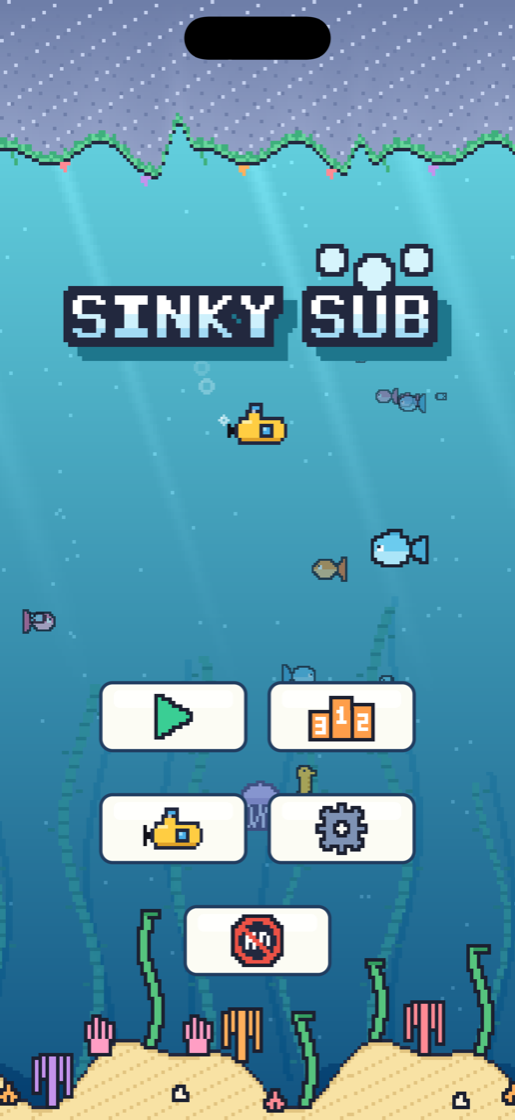
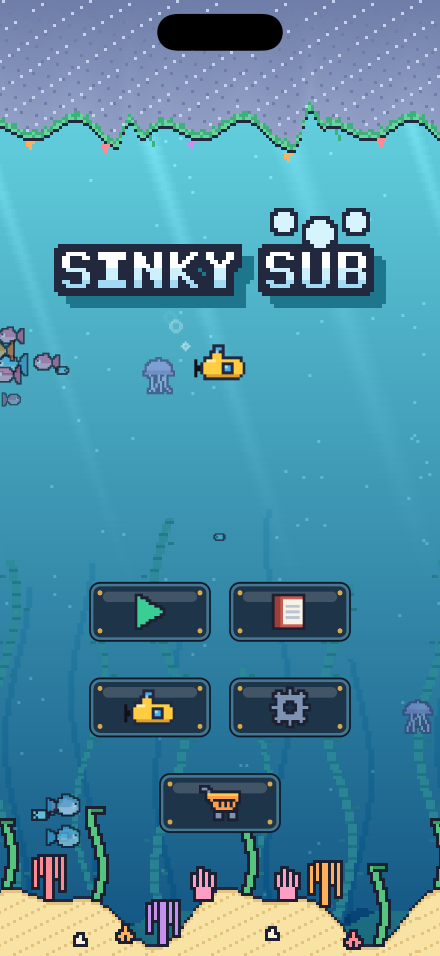
Bring the site up to what the game is now
The page was selling a different game — "tap to dive, avoid obstacles" — and
one of its three screenshots was the old submarine selector, a screen that no
longer exists. Nothing on it mentioned the Hangar, the designer, depth,
anchors or the bands the dive goes through.

It leads with the collection and the designer now, over five screens instead
of three.

Two things on the support page were wrong rather than merely out of date: it
said progress is stored on the device only with no cloud backup, which has not
been true since the game started syncing to iCloud, and it sent people to
Settings to restore a purchase, which is in the shop.

The privacy policy counted medals and knew about one purchase. It now lists
what is actually kept — deepest dive, anchors, hulls, drawn submarines and
their names — and says plainly that a drawing and its name never leave the
player's own Apple Account.

diff --git a/index.html b/index.html
@@ -4,11 +4,12 @@
 <meta charset="utf-8">
 <meta name="viewport" content="width=device-width, initial-scale=1">
 <title>Sinky Sub</title>
-<meta name="description" content="Tap to dive, avoid obstacles. A one-tap arcade game for iPhone.">
+<meta name="description" content="Fifty-one submarines to collect, earned by how deep you get — and five slots to draw your own. A one-life diving game for iPhone.">
 <meta property="og:title" content="Sinky Sub">
-<meta property="og:description" content="Tap to dive, avoid obstacles. A one-tap arcade game for iPhone.">
+<meta property="og:description" content="Fifty-one submarines to collect, earned by how deep you get — and five slots to draw your own. A one-life diving game for iPhone.">
 <meta property="og:type" content="website">
 <meta property="og:url" content="https://sinkysub.com/">
+<meta property="og:image" content="https://sinkysub.com/shot-title.png">
 <meta name="theme-color" content="#082F3D">
 <link rel="preconnect" href="https://fonts.googleapis.com">
 <link rel="preconnect" href="https://fonts.gstatic.com" crossorigin>
@@ -18,14 +19,16 @@
   --deep:#082F3D; --sea:#12667E; --reef:#2E96AC;
   --sand:#F2DFA8; --shallow:#4FB6C6;
   --ink:#0A2530; --paper:#FFFFFF;
+  --night:#06202A;
 }
 *{box-sizing:border-box}
-html{-webkit-text-size-adjust:100%}
+html{-webkit-text-size-adjust:100%; scroll-behavior:smooth}
 body{
   margin:0; color:var(--ink); background:var(--deep);
   font-family:Nunito,-apple-system,BlinkMacSystemFont,"Segoe UI",sans-serif;
   font-size:17px; line-height:1.6; -webkit-font-smoothing:antialiased;
 }
+img{max-width:100%}
 
 /* ---------- hero: the water column ---------- */
 .hero{
@@ -51,12 +54,12 @@ h1{
   text-shadow:0 5px 0 #0C4152, 0 9px 0 rgba(8,47,61,.35);
 }
 .tag{
-  margin:22px auto 0; max-width:26ch; color:var(--paper); font-weight:800;
+  margin:22px auto 0; max-width:30ch; color:var(--paper); font-weight:800;
   font-size:clamp(1.1rem,3vw,1.45rem); line-height:1.4;
   text-shadow:0 2px 6px rgba(6,32,42,.4);
 }
 .sub{
-  margin:10px auto 0; max-width:30ch; color:#0A3644; font-weight:700;
+  margin:10px auto 0; max-width:34ch; color:#0A3644; font-weight:700;
   font-size:clamp(.98rem,2.3vw,1.1rem);
 }
 
@@ -90,16 +93,67 @@ h1{
 .shots img:nth-child(2){margin-bottom:clamp(10px,3.5vw,38px)}
 .floor{height:96px; background:linear-gradient(180deg,transparent,var(--deep) 62%); margin-top:-30px}
 
+/* ---------- features ---------- */
+main{background:var(--deep)}
+.band{padding:clamp(48px,7vw,86px) 20px; border-top:1px solid rgba(255,255,255,.06)}
+.band:nth-child(even){background:var(--night)}
+.row{
+  max-width:1000px; margin:0 auto;
+  display:flex; align-items:center; gap:clamp(26px,5vw,64px);
+}
+.row.flip{flex-direction:row-reverse}
+.row figure{margin:0; flex:0 0 auto}
+.row figure img{
+  width:clamp(170px,30vw,264px); height:auto; display:block;
+  border-radius:14px; border:3px solid rgba(8,47,61,.7);
+  box-shadow:0 20px 44px -16px rgba(2,14,19,.85);
+}
+.copy{flex:1 1 auto; min-width:0}
+.copy h2{
+  font-family:Silkscreen,monospace; font-weight:700; margin:0 0 14px;
+  font-size:clamp(1.12rem,3.1vw,1.72rem); line-height:1.25;
+  color:var(--sand); letter-spacing:.01em;
+}
+.copy p{margin:0 0 14px; color:#BFD9E1}
+.copy p:last-child{margin-bottom:0}
+.copy strong{color:#EAF7FA}
+
+/* two side by side, for the bands */
+.pair{display:flex; gap:clamp(12px,2.6vw,26px); flex:0 0 auto}
+.pair img{
+  width:clamp(130px,21vw,196px); height:auto; display:block;
+  border-radius:14px; border:3px solid rgba(8,47,61,.7);
+  box-shadow:0 20px 44px -16px rgba(2,14,19,.85);
+}
+
+/* ---------- the short facts ---------- */
+.facts{
+  max-width:1000px; margin:0 auto; padding:0;
+  display:grid; gap:clamp(18px,3vw,30px);
+  grid-template-columns:repeat(auto-fit,minmax(248px,1fr));
+}
+.fact h3{
+  font-family:Silkscreen,monospace; font-weight:700; margin:0 0 9px;
+  font-size:.96rem; color:var(--shallow); letter-spacing:.02em; line-height:1.35;
+}
+.fact p{margin:0; color:#A8C6D0; font-size:.97rem}
+
 footer{
   padding:16px 24px 52px; text-align:center;
-  background:var(--deep); color:#8FB3BD; font-size:.9rem;
+  background:var(--night); color:#8FB3BD; font-size:.9rem;
+  border-top:1px solid rgba(255,255,255,.06);
 }
-footer nav{display:flex; flex-wrap:wrap; gap:8px 22px; justify-content:center; margin:0 0 20px}
+footer nav{display:flex; flex-wrap:wrap; gap:8px 22px; justify-content:center; margin:28px 0 20px}
 footer a{color:var(--shallow); text-decoration:none; font-weight:700}
 footer a:hover,footer a:focus-visible{text-decoration:underline}
 footer p{margin:5px 0; font-size:.82rem; color:#5E838E}
 
 @media (prefers-reduced-motion:reduce){*{transition:none!important}}
+@media (max-width:760px){
+  .row,.row.flip{flex-direction:column; text-align:center}
+  .copy h2{font-size:1.18rem}
+  .pair{justify-content:center}
+}
 @media (max-width:560px){
   .hero{padding-top:54px}
 }
@@ -110,8 +164,8 @@ footer p{margin:5px 0; font-size:.82rem; color:#5E838E}
 <header class="hero">
   <div class="hero-inner">
     <h1>SINKY&nbsp;SUB</h1>
-    <p class="tag">Tap to dive, avoid obstacles.</p>
-    <p class="sub">Unlock new submarines as you go.</p>
+    <p class="tag">Fifty-one submarines are down there. You start with one.</p>
+    <p class="sub">One life per dive. How far down can you take it?</p>
 
     <div class="cta">
       <a class="badge" href="#">Coming soon to the App&nbsp;Store</a>
@@ -119,13 +173,113 @@ footer p{margin:5px 0; font-size:.82rem; color:#5E838E}
     </div>
 
     <div class="shots">
-      <img src="shot-title.png" alt="The Sinky Sub title screen, a yellow submarine bobbing beneath the logo in a coral reef." width="515" height="1120">
-      <img src="shot-selector.png" alt="The submarine selector, showing the yellow starter hull marked EQUIPPED, with arrows for browsing the rest." width="515" height="1120">
-      <img src="shot-gameplay.png" alt="Gameplay: the yellow submarine diving between tall pink coral columns, score 19." width="515" height="1120">
+      <img src="shot-title.png" alt="The Sinky Sub title screen: the yellow submarine bobbing beneath the logo, over a kelp bed." width="440" height="956" loading="eager">
+      <img src="shot-kelp.png" alt="Diving at 255 metres, the yellow submarine threading the gap between two kelp plants." width="440" height="956" loading="eager">
+      <img src="shot-hangar.png" alt="The Hangar, showing a shelf of collected submarine hulls with the yellow one equipped." width="440" height="956" loading="eager">
     </div>
   </div>
   <div class="floor"></div>
 </header>
+
+<main>
+
+  <section class="band">
+    <div class="row">
+      <figure>
+        <img src="shot-hangar.png" alt="The Hangar: twelve submarine hulls on a shelf, the yellow one badged as equipped." width="440" height="956" loading="lazy">
+      </figure>
+      <div class="copy">
+        <h2>Fifty-one hulls to collect</h2>
+        <p>Sixteen unlock by reaching a depth. Thirty-three are bought with
+        anchors — <strong>SHALLOWS</strong> at 100 M, <strong>REEF</strong> at
+        200, <strong>TRENCH</strong> at 300, <strong>ABYSS</strong> at 400, and
+        <strong>HADAL</strong> and <strong>CHALLENGER</strong> for the dives
+        that go past 600.</p>
+        <p>You earn an anchor on every dive that reaches its depth, not just
+        your best one, so a bad streak still leaves you something. A fiftieth
+        SHALLOWS counts as much as your first.</p>
+        <p>Two of the fifty-one, nobody will tell you how to find.</p>
+      </div>
+    </div>
+  </section>
+
+  <section class="band">
+    <div class="row flip">
+      <figure>
+        <img src="shot-designer.png" alt="The sub designer: a hand-drawn cyan submarine on a pixel grid, above three rows of colour swatches and the brush, fill, undo, save and cancel tools." width="440" height="956" loading="lazy">
+      </figure>
+      <div class="copy">
+        <h2>Draw your own</h2>
+        <p>Five slots in the Hangar are yours to paint. The hull on a grid,
+        <strong>twenty-seven colours</strong>, a brush, a fill bucket and an
+        undo — and a name you give it on a keyboard the game draws itself.</p>
+        <p>Every pixel inside the outline belongs to you, the lookout window
+        included: paint over it, redraw it, or leave the hull blank where it
+        was. Only the outline, the periscope and the propeller stay put,
+        because the outline is the shape the game measures your crashes
+        against.</p>
+        <p>Save it and you are diving it. Your designs follow you to your
+        other devices. The first slot comes with the game.</p>
+      </div>
+    </div>
+  </section>
+
+  <section class="band">
+    <div class="row">
+      <div class="pair">
+        <img src="shot-kelp.png" alt="The kelp at 255 metres: two kelp plants hanging from the cave roof, a jellyfish drifting past." width="440" height="956" loading="lazy">
+        <img src="shot-midnight.png" alt="The midnight at 906 metres: the cave almost black, lit only by the submarine's own lamp, with the rock edges glowing." width="440" height="956" loading="lazy">
+      </div>
+      <div class="copy">
+        <h2>The water changes as you go</h2>
+        <p>The reef gives way to <strong>kelp</strong> at 200 M, to a moored
+        <strong>minefield</strong> at 400 M, and at 600 M to something with
+        <strong>arms</strong>. Past 800 M the light goes: down there the only
+        thing lit is what your own lamp reaches.</p>
+        <p>Each band is a little tighter and a little quicker than the one
+        above it. Every dive meets the same water at the same depth, so
+        nobody's run is luckier than anybody else's.</p>
+      </div>
+    </div>
+  </section>
+
+  <section class="band">
+    <div class="facts">
+      <div class="fact">
+        <h3>Depth, not points</h3>
+        <p>Your score is how far down you got, run as an odometer that keeps
+        the distance you covered even if the dive ends between two columns.</p>
+      </div>
+      <div class="fact">
+        <h3>Built to be fair</h3>
+        <p>Collision follows the drawn art, not a box around it. If you can
+        see daylight through a gap, you fit through it.</p>
+      </div>
+      <div class="fact">
+        <h3>Made from scratch</h3>
+        <p>Every sprite, every sound effect and the whole soundtrack were
+        written for this game. No stock art, no asset packs.</p>
+      </div>
+      <div class="fact">
+        <h3>Plays anywhere</h3>
+        <p>No account. No internet needed. No timers, no lives to wait for,
+        nothing asking you to come back tomorrow.</p>
+      </div>
+      <div class="fact">
+        <h3>One life per dive</h3>
+        <p>Your submarine floats upward on its own. Tap to fire the thrusters
+        and dive. Touch the roof and the run is over.</p>
+      </div>
+      <div class="fact">
+        <h3>Two things for sale</h3>
+        <p>Free, with a banner across the top. One purchase removes it for
+        good, and one opens the other four drawing slots. Nothing else, and
+        nothing timed.</p>
+      </div>
+    </div>
+  </section>
+
+</main>
 
 <footer>
   <nav>

diff --git a/support.html b/support.html
@@ -37,24 +37,57 @@
 <body>
 <main>
 <h1>Sinky Sub — Support</h1>
-<p class="updated">A one-tap arcade game for iPhone</p>
+<p class="updated">A one-life diving game for iPhone</p>
 
 <h2>How to play</h2>
 <p>Your submarine floats upward on its own. Tap anywhere to fire the thrusters
-and dive. Thread the gaps in the coral and stay off the cave roof — that is the
-only surface that ends a run. The sandy floor is scenery; sinking into it is
-safe.</p>
+and dive. Thread the gaps and stay off the cave roof — that is the only surface
+that ends a run. The sandy floor is scenery; sinking into it is safe.</p>
+<p>Your score is how far down you got, in metres. One life per dive.</p>
+<p>There is a three-page how-to-play book inside the game, on the question mark
+on the dive briefing and in Settings. Its first page has a TRY ME button that
+flies your own boat, so you can feel the controls without spending a run.</p>
+
+<h2>The Hangar</h2>
+<p>The submarine button on the title screen opens the Hangar: every hull in the
+game on one shelf, 51 of them. Sixteen unlock by reaching a depth. Thirty-three
+are bought with anchors, which you earn by reaching a depth on any dive —
+SHALLOWS at 100 M, REEF at 200, TRENCH at 300, ABYSS at 400, HADAL at 600 and
+CHALLENGER at 800. You keep an anchor for every dive that reaches its depth,
+not just your best one.</p>
+
+<h2>Drawing your own</h2>
+<p>On the end of the Hangar shelf are five drawing slots. The first comes with
+the game; the other four are a single purchase.</p>
+<p>Open a slot and tap the brush. You get the hull on a grid, twenty-seven
+colours, a brush, a fill bucket and an undo. Everything inside the submarine's
+outline is yours to paint, the lookout window included — paint over it, redraw
+it, or leave the hull blank where it was. The outline itself, the periscope and
+the propeller stay as they are, because the outline is the shape the game
+measures your crashes against.</p>
+<p>Tap the name at the top to rename it on the game's own keyboard: twelve
+characters, letters and digits. Saving equips what you drew. Your drawings and
+their names are yours alone — they are never shown to anyone else.</p>
 
 <h2>Common questions</h2>
 <p><strong>Some submarines show "???" instead of how to unlock them.</strong><br>
 That is intended. A couple of hulls are hidden and unlock by other means.</p>
-<p><strong>I bought Remove Ads and got a new phone.</strong><br>
-Open Settings inside the game and choose Restore. Purchases are tied to your
-Apple Account rather than to a device, so this works on any phone signed in to
-the same account.</p>
+<p><strong>I bought something and got a new phone.</strong><br>
+Open SHOP on the title screen and tap Restore. Purchases are tied to your Apple
+Account rather than to a device, so this works on any phone signed in to the
+same account. Restore is also on each purchase's own page.</p>
 <p><strong>My progress disappeared.</strong><br>
-Progress is stored on the device only, so deleting the app deletes it. There is
-no cloud backup.</p>
+Your best depth, your anchors, your unlocked hulls, your settings and your
+drawn submarines all sync to your own iCloud, so a new phone picks up where the
+old one left off. Check that the phone is signed in to the same Apple Account
+and that iCloud Drive is on. Purchases are separate and come back through
+Restore, above.</p>
+<p><strong>The shop says a purchase is unavailable.</strong><br>
+That normally means the device cannot reach the App Store. Check the connection
+and reopen the shop.</p>
+<p><strong>I bought the extra drawing slots but still see four locked.</strong><br>
+Tap Restore in the shop. If they are still locked after that, write to me with
+the Apple Account email you bought with.</p>
 
 <h2>Contact</h2>
 <p><a href="mailto:support@sinkysub.com">support@sinkysub.com</a></p>

diff --git a/privacy-policy.html b/privacy-policy.html
@@ -37,7 +37,7 @@
 <body>
 <main>
 <h1>Sinky Sub — Privacy Policy</h1>
-<p class="updated">Last updated 4 September 2026</p>
+<p class="updated">Last updated 8 October 2026</p>
 
 <h2>The short version</h2>
 <p>Sinky Sub has no accounts, no analytics, and does not track you. It does show
@@ -48,18 +48,29 @@ into other apps.</p>
 <h2>What is stored, and where</h2>
 <p>The game saves your progress:</p>
 <ul>
-<li>your best score and last score</li>
-<li>how many medals you have earned</li>
+<li>your deepest dive, and the depth of your last one</li>
+<li>how many anchors you have earned at each rank</li>
 <li>which submarine hulls you have unlocked, and which one is equipped</li>
+<li>the submarines you have drawn yourself, and the names you gave them</li>
 <li>your music, sound, haptics and random-hull settings</li>
 </ul>
-<p>All of it lives in your device's own storage. Most of it — your best score,
-your medals, your unlocked hulls and your settings — also syncs to your own
-iCloud account, so a new phone picks up where the old one left off. That copy
-belongs to you, sits under your Apple Account, and is covered by Apple's privacy
-policy; the developer cannot see it or read it. Deleting the app removes the
-copy on the device. The iCloud copy is removed through your device's iCloud
-storage settings.</p>
+<p>All of it lives in your device's own storage. Most of it — your deepest
+dive, your anchors, your unlocked hulls, your drawn submarines and your
+settings — also syncs to your own iCloud account, so a new phone picks up where
+the old one left off. That copy belongs to you, sits under your Apple Account,
+and is covered by Apple's privacy policy; the developer cannot see it or read
+it. Deleting the app removes the copy on the device. The iCloud copy is removed
+through your device's iCloud storage settings.</p>
+
+<h2>The submarines you draw</h2>
+<p>The game lets you draw your own hulls and give each one a name. A drawing is
+stored as a list of colours, and the name as plain text, alongside the rest of
+your progress — on your device and in your own iCloud.</p>
+<p><strong>Neither ever leaves your own Apple Account.</strong> There is no
+gallery, no sharing, no upload and no moderation queue, because nothing you
+draw or type is sent anywhere the developer or anybody else can see it. The
+names are not checked or filtered for the same reason: nobody but you will ever
+read them.</p>
 
 <h2>Advertising</h2>
 <p>The game shows a banner supplied by Google AdMob. Two things about how it is
@@ -79,11 +90,13 @@ game makes no ad requests at all.</p>
 
 <h2>Network use</h2>
 <p>Apart from those ad requests, the app talks only to Apple: iCloud, for the
-progress sync described above, and the App Store, for the Remove Ads purchase.
-The purchase is handled entirely by Apple's App Store and StoreKit. The
-developer never sees your payment details, your Apple Account, or any other
-identifying information — only whether this device is entitled to the
-purchase.</p>
+progress sync described above, and the App Store, for its two purchases —
+Remove Ads, and the four extra drawing slots.</p>
+<p>Both are handled entirely by Apple's App Store and StoreKit. The developer
+never sees your payment details, your Apple Account, or any other identifying
+information — only whether this device is entitled to a purchase. That
+entitlement is read back from Apple rather than synced, which is why Restore
+works on a new phone without the game having stored anything about you.</p>
 
 <h2>Children</h2>
 <p>Sinky Sub is suitable for all ages. It does not knowingly collect personal
